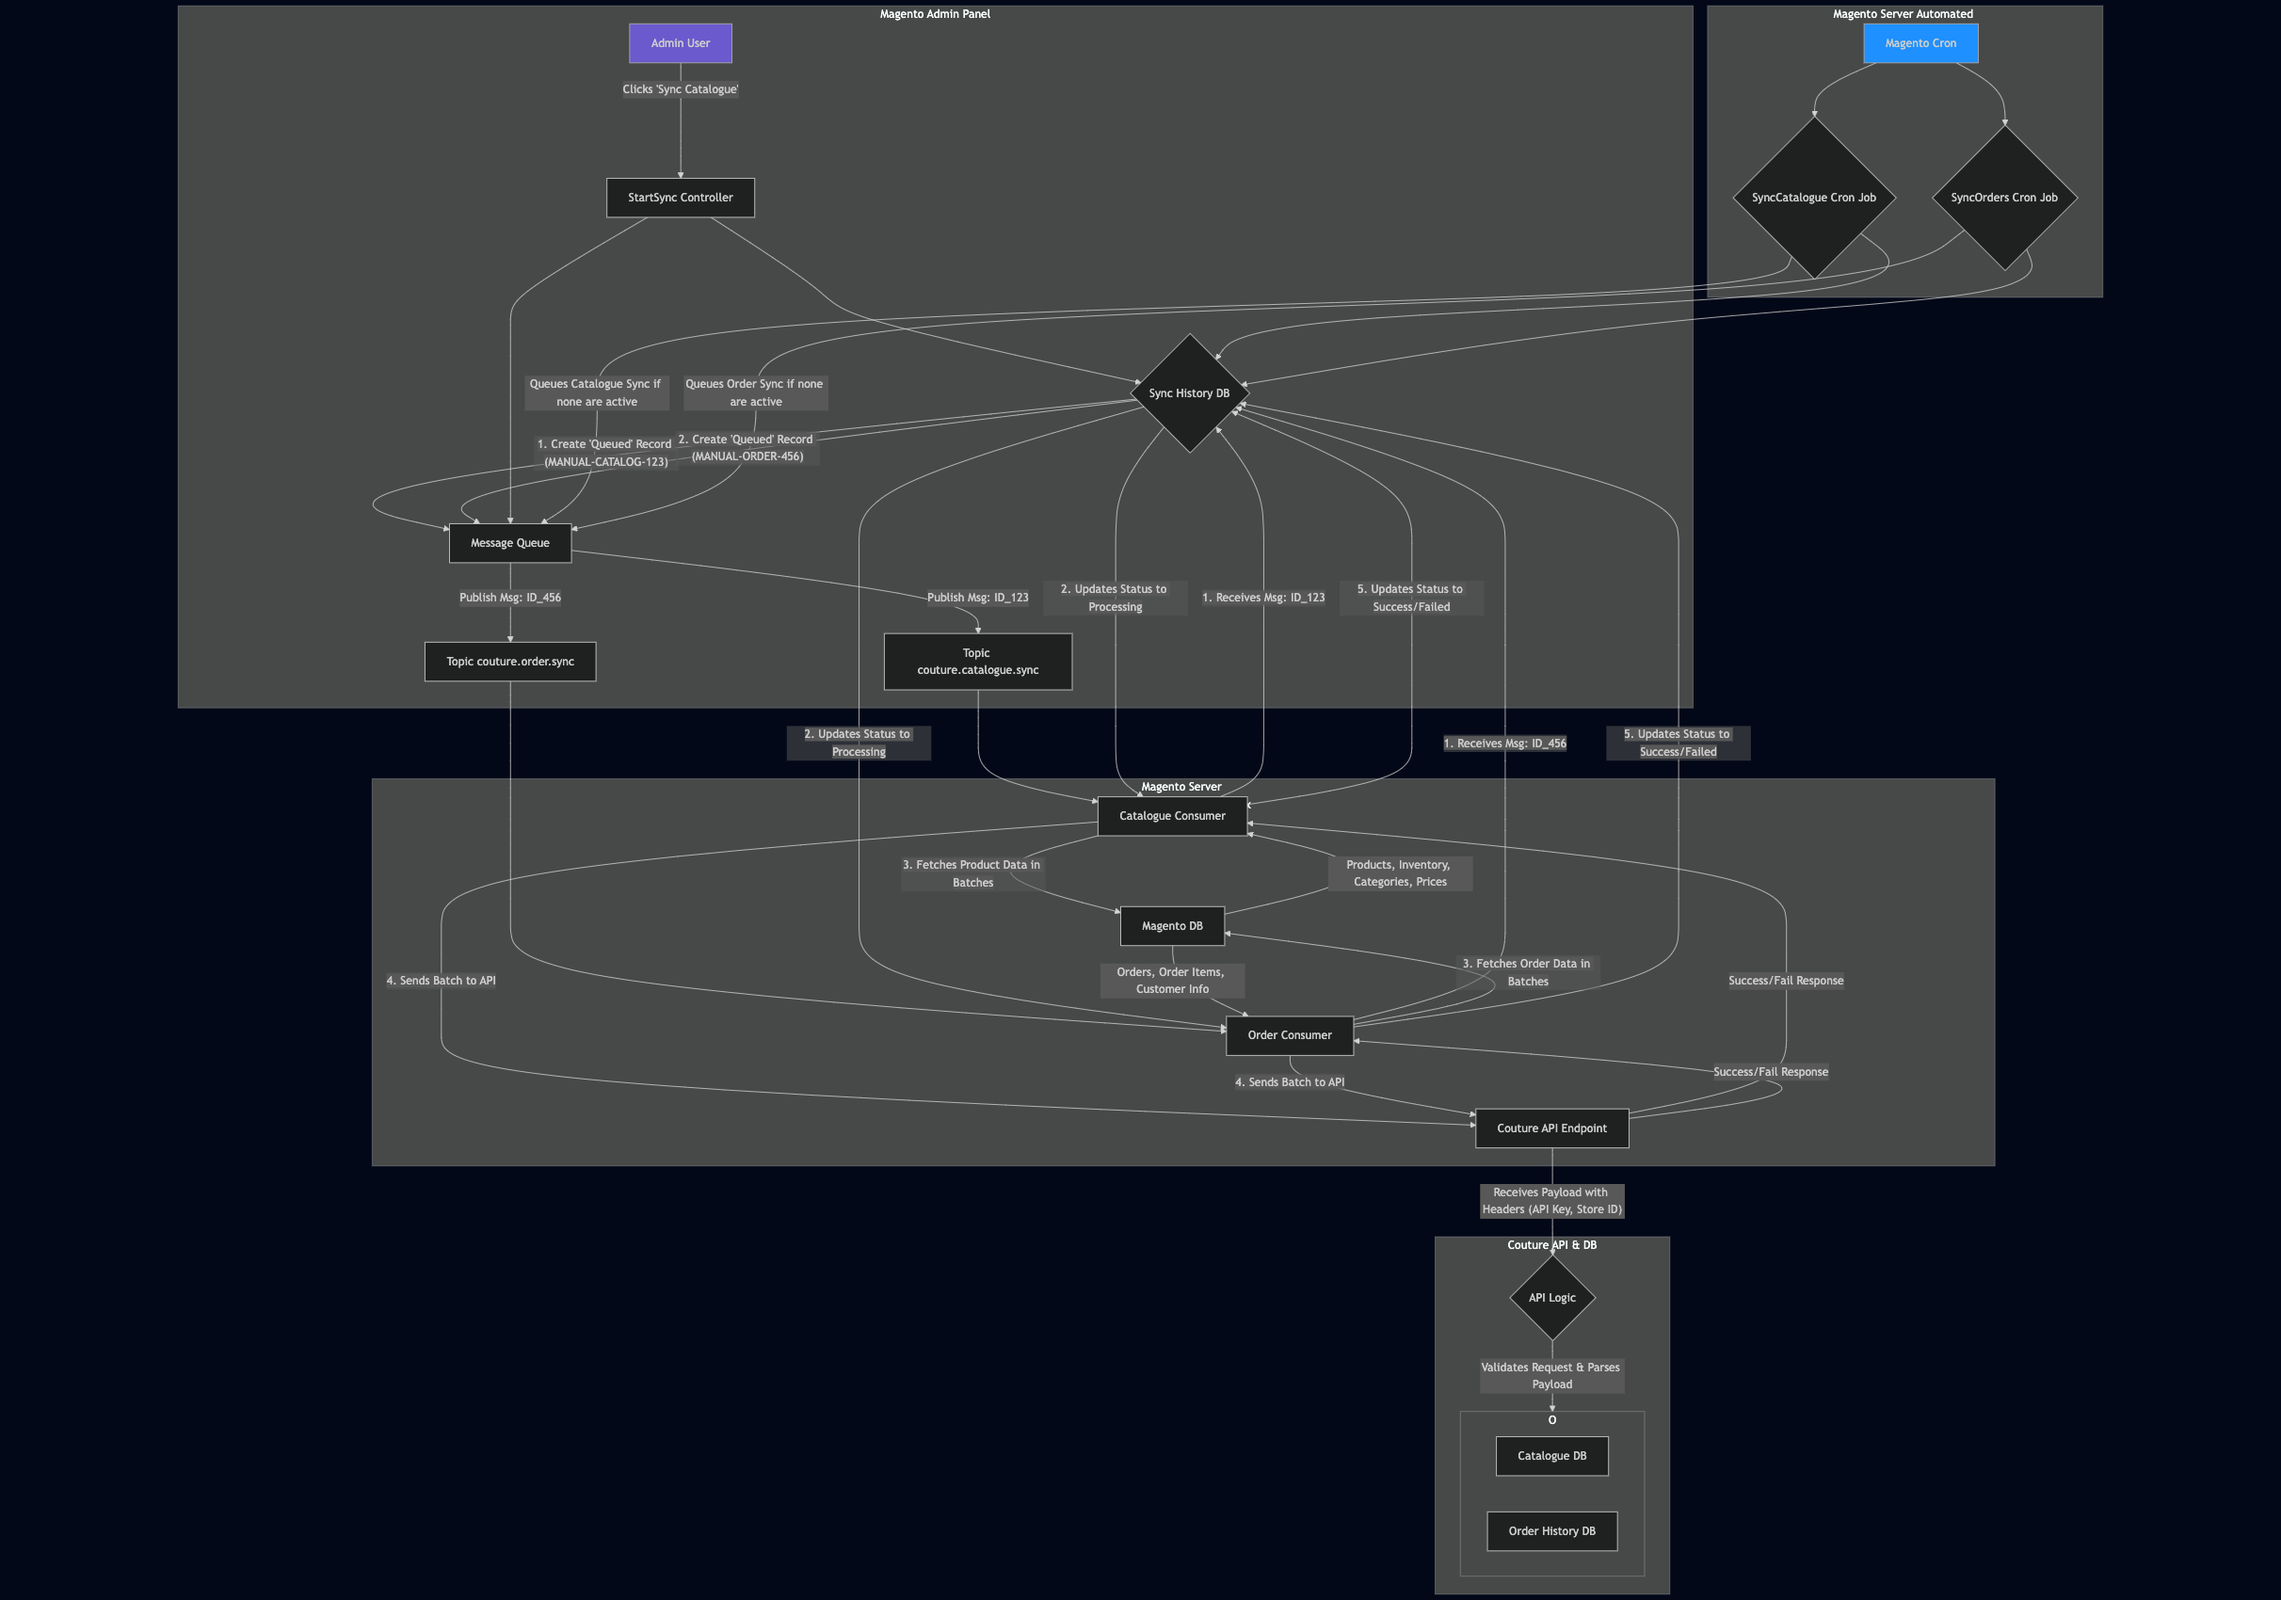
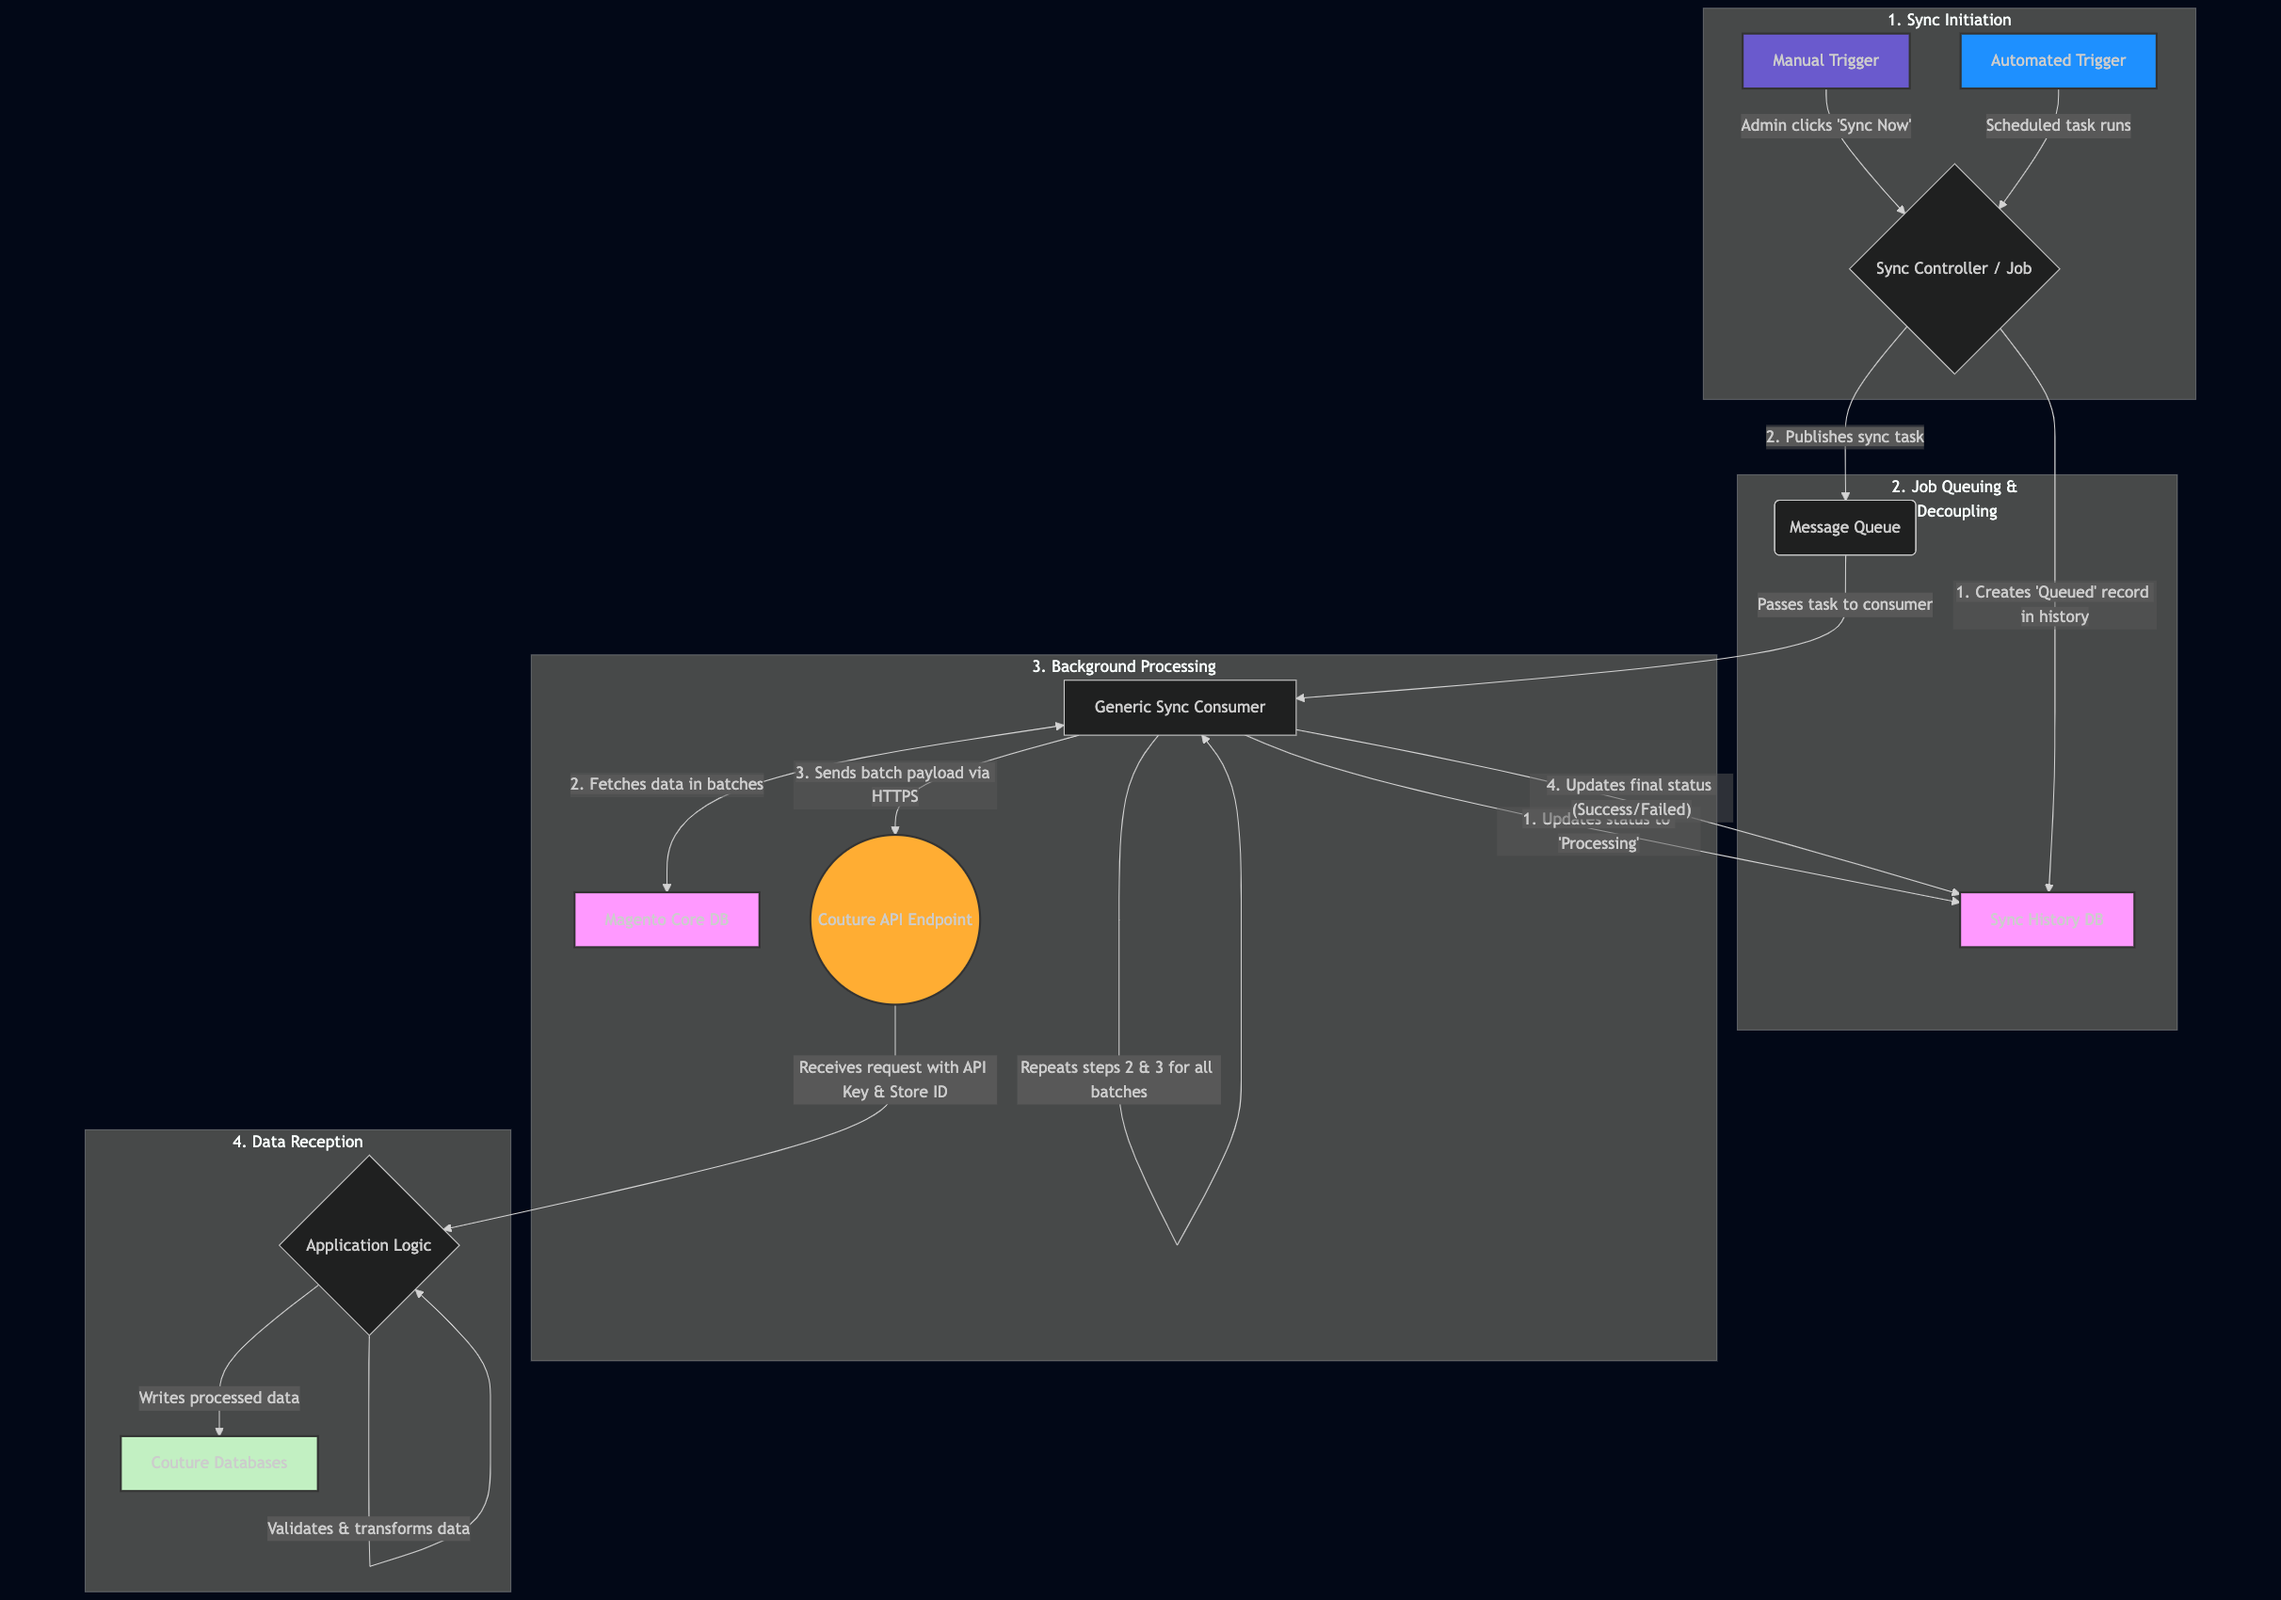
update: mermaid overall diagram

diff --git a/docs/architecture/mermaid-codes/overall.md b/docs/architecture/mermaid-codes/overall.md
@@ -1,52 +1,33 @@
 graph TD
-    subgraph Magento Admin Panel
-        A[Admin User] -->|Clicks 'Sync Catalogue'| B[StartSync Controller]
-        B --> C{Sync History DB}
-        C -- "1. Create 'Queued' Record (MANUAL-CATALOG-123)" --> D
-        C -- "2. Create 'Queued' Record (MANUAL-ORDER-456)" --> D
-        B --> D[Message Queue]
-        D -- "Publish Msg: ID_123" --> E[Topic couture.catalogue.sync]
-        D -- "Publish Msg: ID_456" --> F[Topic couture.order.sync]
+    subgraph 1. Sync Initiation 
+        A[Manual Trigger] -- "Admin clicks 'Sync Now'" --> C{Sync Controller / Job};
+        B[Automated Trigger] -- "Scheduled task runs" --> C;
     end
 
-    subgraph Magento Server Automated Cron
-        G[Magento Cron] --> H{SyncCatalogue Cron Job}
-        G --> I{SyncOrders Cron Job}
-        H --> C
-        I --> C
-        H -- "Queues Catalogue Sync if none are active" --> D
-        I -- "Queues Order Sync if none are active" --> D
+    subgraph 2. Job Queuing & Decoupling
+        C -- "1. Creates 'Queued' record in history" --> D[Sync History DB];
+        C -- "2. Publishes sync task" --> E(Message Queue);
     end
 
-    subgraph Magento Server Background Consumersxsx
-        E --> J[Catalogue Consumer]
-        F --> K[Order Consumer]
-
-        J -- "1. Receives Msg: ID_123" --> C
-        C -- "2. Updates Status to Processing" --> J
-        J -- "3. Fetches Product Data in Batches" --> L[Magento DB]
-        L -- "Products, Inventory, Categories, Prices" --> J
-        J -- "4. Sends Batch to API" --> M[Couture API Endpoint]
-        M -- "Success/Fail Response" --> J
-        J -- "5. Updates Status to Success/Failed" --> C
-
-        K -- "1. Receives Msg: ID_456" --> C
-        C -- "2. Updates Status to Processing" --> K
-        K -- "3. Fetches Order Data in Batches" --> L
-        L -- "Orders, Order Items, Customer Info" --> K
-        K -- "4. Sends Batch to API" --> M
-        M -- "Success/Fail Response" --> K
-        K -- "5. Updates Status to Success/Failed" --> C
+    subgraph 3. Background Processing
+        E -- "Passes task to consumer" --> F[Generic Sync Consumer];
+        F -- "1. Updates status to 'Processing'" --> D;
+        F -- "2. Fetches data in batches" <--> G[Magento Core DB];
+        F -- "Repeats steps 2 & 3 for all batches" --> F;
+        F -- "3. Sends batch payload via HTTPS" --> H((Couture API Endpoint));
+        F -- "4. Updates final status (Success/Failed)" --> D;
+    end
+    
+    subgraph 4. Data Reception
+        H -- "Receives request with API Key & Store ID" --> I{Application Logic};
+        I -- "Validates & transforms data" --> I;
+        I -- "Writes processed data" --> J[Couture Databases];
     end
 
-    subgraph Couture API & DB
-        M -- "Receives Payload with Headers (API Key, Store ID)" --> N{API Logic}
-        N -- "Validates Request & Parses Payload" --> O[Couture Databases]
-        subgraph O
-            P[Catalogue DB]
-            Q[Order History DB]
-        end
-    end
-
-    style A fill:#6a5acd,stroke:#aaa,stroke-width:2px   %% soft slate blue
-    style G fill:#1e90ff,stroke:#aaa,stroke-width:2px   %% dodger blue
+    %% Styling
+    style A fill:#6a5acd,stroke:#333,stroke-width:2px
+    style B fill:#1e90ff,stroke:#333,stroke-width:2px
+    style D fill:#f9f,stroke:#333,stroke-width:2px
+    style G fill:#f9f,stroke:#333,stroke-width:2px
+    style J fill:#c2f0c2,stroke:#333,stroke-width:2px
+    style H fill:#ffad33,stroke:#333,stroke-width:2px
